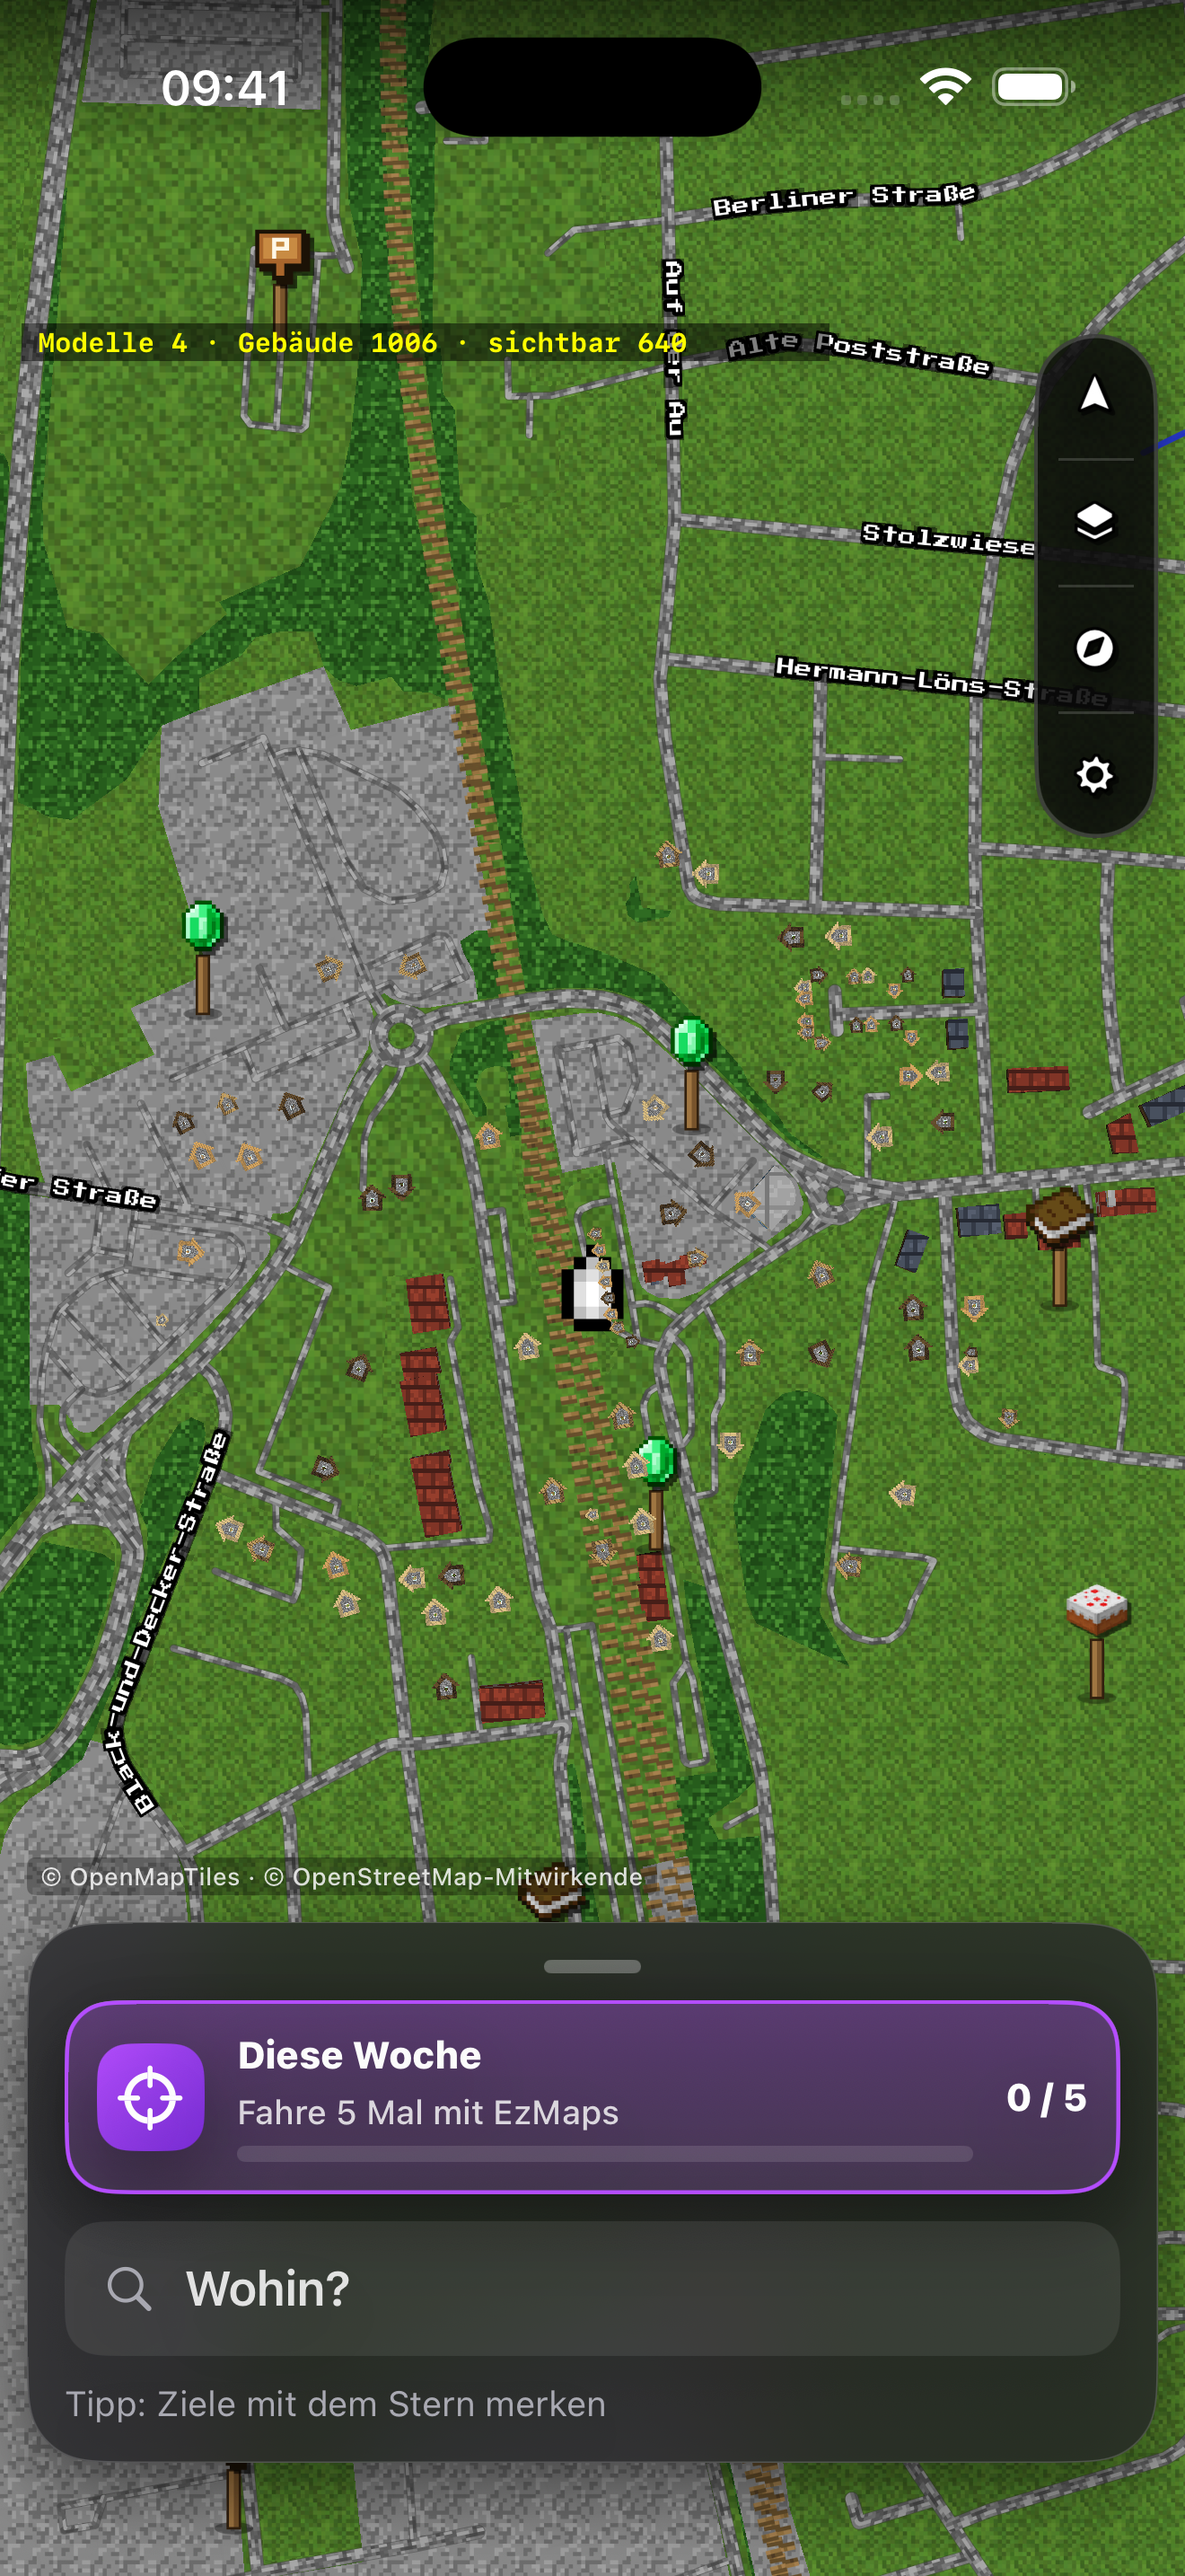
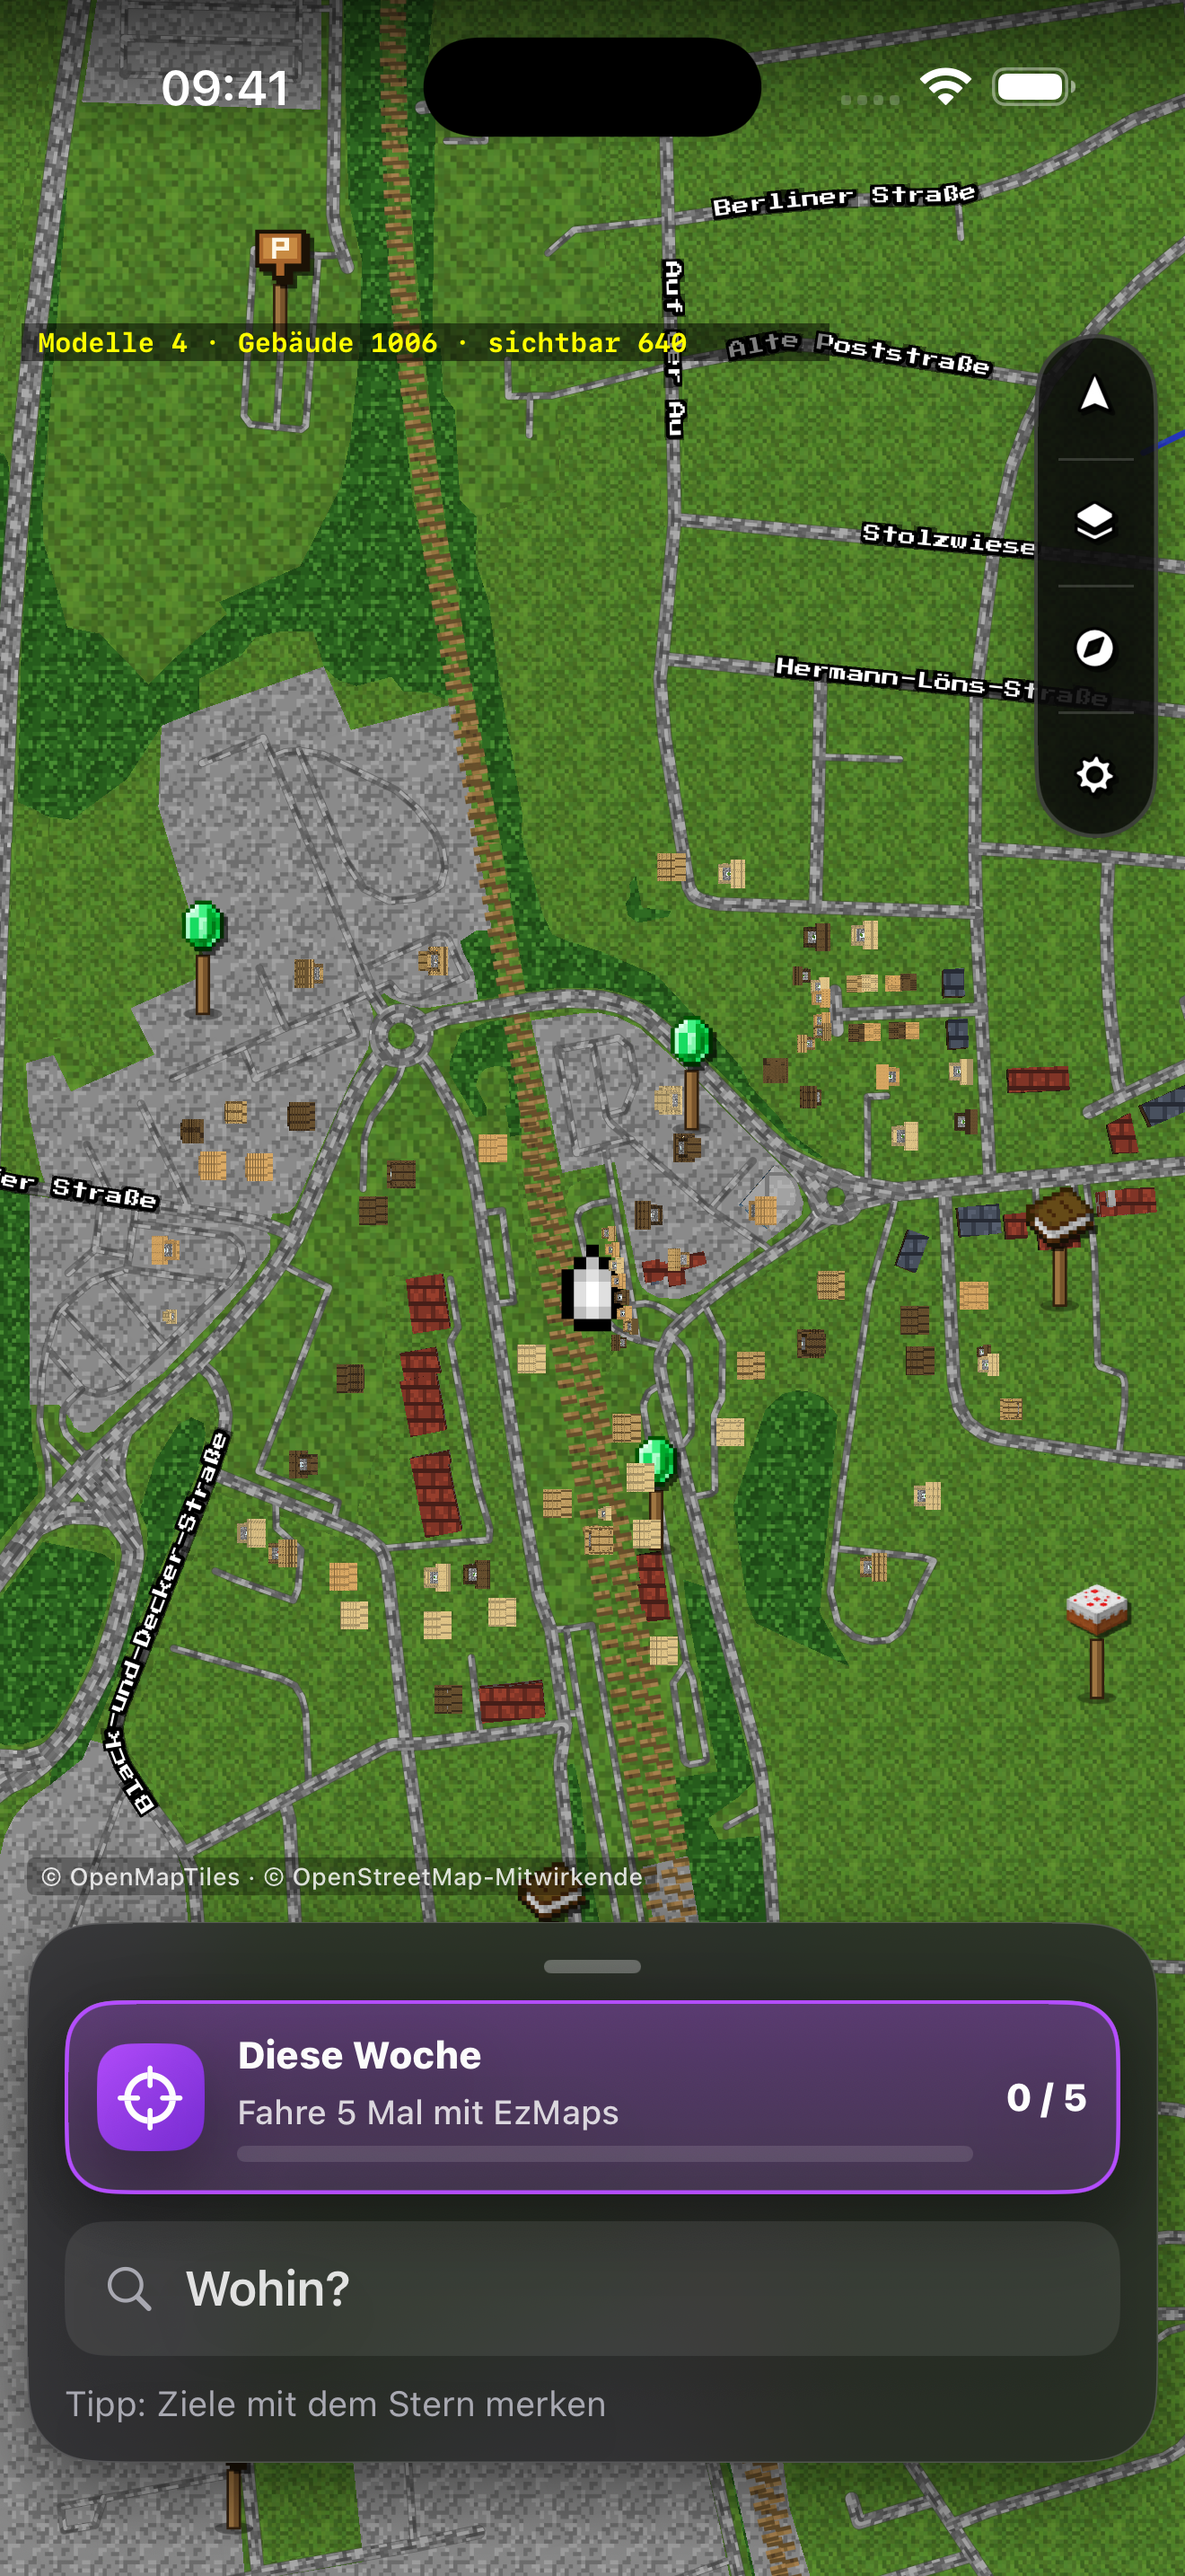
GM-093: Drehreihenfolge, Neigung nach Stil-Laden

diff --git a/App/VillageLayer.swift b/App/VillageLayer.swift
@@ -140,7 +140,10 @@ final class VillageLayer {
             house.node.scale = SCNVector3(s, s, s)
             house.node.position = SCNVector3(Float(p.x - w / 2), Float(h / 2 - p.y), Float(p.y))
             // Modell Y-up: um 90° minus Kartenneigung kippen (flach von oben sieht man nur das Dach), um Y nach Gebäudekante drehen
-            house.node.eulerAngles = SCNVector3(.pi / 2 - pitch, -Float((house.angle - dir) * .pi / 180), 0)
+            // GM-093: erst um die eigene Hochachse drehen, dann kippen (eulerAngles drehte in falscher Reihenfolge – Häuser kippten seitlich)
+            let yaw = simd_quatf(angle: -Float((house.angle - dir) * .pi / 180), axis: SIMD3<Float>(0, 1, 0))
+            let tilt = simd_quatf(angle: .pi / 2 - pitch, axis: SIMD3<Float>(1, 0, 0))
+            house.node.simdOrientation = tilt * yaw
         }
     }
 }

diff --git a/App/NeonMapView.swift b/App/NeonMapView.swift
@@ -565,6 +565,13 @@ struct NeonMapView: UIViewRepresentable {
 
         func mapView(_ mapView: MLNMapView, didFinishLoading style: MLNStyle) {
             overlay?.styleLoaded(style)
+            // GM-093: Neigung des Stils, sobald die Karte steht (beim Start griff sie vorher nicht)
+            MainActor.assumeIsolated {
+                if !navigating {
+                    let p = RouteOverlay.pitch(for: self.style)
+                    if abs(mapView.camera.pitch - p) > 1 { let cam = mapView.camera; cam.pitch = p; mapView.setCamera(cam, animated: false) }
+                }
+            }
         }
 
         /// GM-092: Villager-Häuser nachladen, wenn Kacheln da sind
